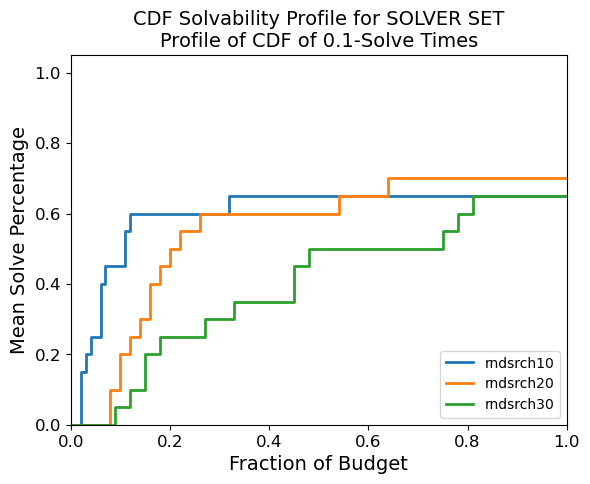
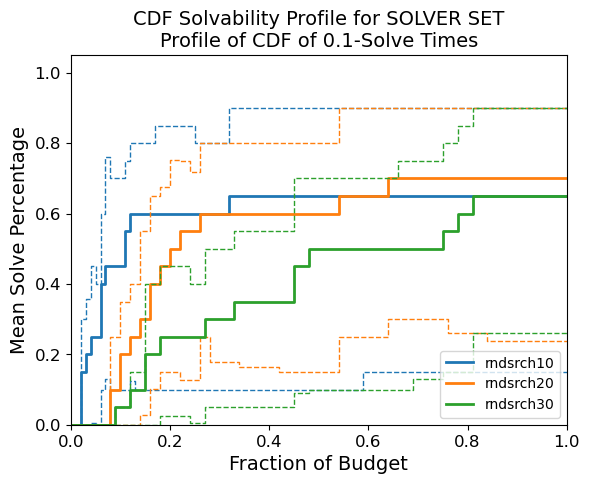
finish function for plotting solvability and difference profiles
Add bootstrapping and ability to produce separate plots for each solver. Create helper function to produce curve with a jump at solve time quantile.

diff --git a/simopt/wrapper_base.py b/simopt/wrapper_base.py
@@ -229,6 +229,32 @@ def cdf_of_curves_crossing_times(curves, threshold):
     return cdf_curve
 
 
+def quantile_cross_jump(curves, threshold, beta):
+    """
+    Compute a simple curve with a jump at the quantile of the crossing times.
+
+    Parameters
+    ----------
+    curves : list of wrapper_base.Curve objects
+        collection of curves to aggregate
+    threshold : float
+        value for which to find first crossing time
+    beta : float
+        quantile level
+
+    Returns
+    -------
+    jump_curve : wrapper_base.Curve object
+        piecewise-constant curve with a jump at the quantile crossing time (if finite)
+    """
+    solve_time_quantile = np.quantile([curve.compute_crossing_time(threshold=threshold) for curve in curves], q=beta)
+    if solve_time_quantile == np.inf:
+        jump_curve = Curve(x_vals=[0, 1], y_vals=[0, 0])
+    else:
+        jump_curve = Curve(x_vals=[0, solve_time_quantile, 1], y_vals=[0, 1, 1])
+    return jump_curve
+
+
 def difference_of_curves(curve1, curve2):
     """
     Compute the difference of two curves (Curve 1 - Curve 2).
@@ -952,16 +978,20 @@ def functional_of_curves(bootstrap_curves, plot_type, beta=0.5, solve_tol=0.1):
         functional = cdf_of_curves_crossing_times(bootstrap_curves[0][0], threshold=solve_tol)
     elif plot_type == "cdf_solvability":
         # One solver, multiple problems --> returns a curve.
-        functional = None  # Placeholder.
+        functional = mean_of_curves([cdf_of_curves_crossing_times(curves=progress_curves, threshold=solve_tol) for progress_curves in bootstrap_curves[0]])
     elif plot_type == "quantile_solvability":
         # One solver, multiple problems --> returns a curve.
-        functional = None  # Placeholder.
+        functional = mean_of_curves([quantile_cross_jump(curves=progress_curves, threshold=solve_tol, beta=beta) for progress_curves in bootstrap_curves[0]])
     elif plot_type == "diff_cdf_solvability":
         # Two solvers, multiple problems --> returns a curve.
-        functional = None  # Placeholder.
+        solvability_profile_1 = mean_of_curves([cdf_of_curves_crossing_times(curves=progress_curves, threshold=solve_tol) for progress_curves in bootstrap_curves[0]])
+        solvability_profile_2 = mean_of_curves([cdf_of_curves_crossing_times(curves=progress_curves, threshold=solve_tol) for progress_curves in bootstrap_curves[1]])
+        functional = difference_of_curves(solvability_profile_1, solvability_profile_2)
     elif plot_type == "diff_quantile_solvability":
         # Two solvers, multiple problems --> returns a curve.
-        functional = None  # Placeholder.
+        solvability_profile_1 = mean_of_curves([quantile_cross_jump(curves=progress_curves, threshold=solve_tol, beta=beta) for progress_curves in bootstrap_curves[0]])
+        solvability_profile_2 = mean_of_curves([quantile_cross_jump(curves=progress_curves, threshold=solve_tol, beta=beta) for progress_curves in bootstrap_curves[1]])
+        functional = difference_of_curves(solvability_profile_1, solvability_profile_2)
     else:
         print("Not a valid plot type.")
     return functional
@@ -1422,7 +1452,7 @@ def plot_area_scatterplots(experiments, all_in_one=True, plot_CIs=True, print_ma
                       )
 
 
-def plot_solvability_profiles(experiments, plot_type, all_in_one=True, plot_CIS=True, print_max_hw=True, solve_tol=0.1, beta=0.5, ref_solver=None):
+def plot_solvability_profiles(experiments, plot_type, all_in_one=True, plot_CIs=True, print_max_hw=True, solve_tol=0.1, beta=0.5, ref_solver=None):
     """
     Plot the (difference of) solvability profiles for each solver on a set of problems.
 
@@ -1474,11 +1504,7 @@ def plot_solvability_profiles(experiments, plot_type, all_in_one=True, plot_CIS=
                 if plot_type in {"cdf_solvability", "diff_cdf_solvability"}:
                     sub_curve = cdf_of_curves_crossing_times(curves=experiment.progress_curves, threshold=solve_tol)
                 if plot_type in {"quantile_solvability", "diff_quantile_solvability"}:
-                    solve_time_quantile = np.quantile([curve.compute_crossing_time(threshold=solve_tol) for curve in experiment.progress_curves], q=beta)
-                    if solve_time_quantile == np.inf:
-                        sub_curve = Curve(x_vals=[0, 1], y_vals=[0, 0])
-                    else:
-                        sub_curve = Curve(x_vals=[0, solve_time_quantile, 1], y_vals=[0, 1, 1])
+                    sub_curve = quantile_cross_jump(curves=experiment.progress_curves, threshold=solve_tol, beta=beta)
                 solver_sub_curves.append(sub_curve)
             # Plot solvability profile for the solver.
             # Exploit the fact that each solvability profile is an average of more basic curves.
@@ -1487,6 +1513,18 @@ def plot_solvability_profiles(experiments, plot_type, all_in_one=True, plot_CIS=
             if plot_type in {"cdf_solvability", "quantile_solvability"}:
                 handle = solver_curve.plot(color_str=color_str)
                 solver_curve_handles.append(handle)
+                if plot_CIs:
+                    # Note: "experiments" needs to be a list of list of Experiments.
+                    bs_CI_lb_curve, bs_CI_ub_curve = bootstrap_procedure(experiments=[experiments[solver_idx]],
+                                                                         n_bootstraps=100,
+                                                                         plot_type=plot_type,
+                                                                         solve_tol=solve_tol,
+                                                                         beta=beta,
+                                                                         estimator=solver_curve,
+                                                                         normalize=True
+                                                                         )
+                    plot_bootstrap_CIs(bs_CI_lb_curve, bs_CI_ub_curve, color_str=color_str)
+
         if plot_type == "cdf_solvability":
             plt.legend(handles=solver_curve_handles, labels=solver_names, loc="lower right")
             save_plot(solver_name="SOLVER SET",
@@ -1512,7 +1550,19 @@ def plot_solvability_profiles(experiments, plot_type, all_in_one=True, plot_CIS=
                     color_str = "C" + str(solver_idx)
                     handle = diff_solver_curve.plot(color_str=color_str)
                     solver_curve_handles.append(handle)
-            offset_labels = [f"{non_ref_solver} -  {ref_solver}" for non_ref_solver in non_ref_solvers]
+                    if plot_CIs:
+                        # Note: "experiments" needs to be a list of list of Experiments.
+                        bs_CI_lb_curve, bs_CI_ub_curve = bootstrap_procedure(experiments=[experiments[solver_idx], experiments[ref_solver_idx]],
+                                                                             n_bootstraps=100,
+                                                                             plot_type=plot_type,
+                                                                             solve_tol=solve_tol,
+                                                                             beta=beta,
+                                                                             estimator=diff_solver_curve,
+                                                                             normalize=True
+                                                                             )
+                        plot_bootstrap_CIs(bs_CI_lb_curve, bs_CI_ub_curve, color_str=color_str)
+
+            offset_labels = [f"{non_ref_solver} - {ref_solver}" for non_ref_solver in non_ref_solvers]
             plt.legend(handles=solver_curve_handles, labels=offset_labels, loc="lower right")
             if plot_type == "diff_cdf_solvability":
                 save_plot(solver_name="SOLVER SET",
@@ -1529,7 +1579,91 @@ def plot_solvability_profiles(experiments, plot_type, all_in_one=True, plot_CIS=
                           extra=[solve_tol, beta]
                           )
     else:
-        pass
+        solver_names = [solver_experiments[0].solver.name for solver_experiments in experiments]
+        solver_curves = []
+        for solver_idx in range(n_solvers):
+            solver_sub_curves = []
+            # For each problem compute the cdf or quantile of solve times.
+            for problem_idx in range(n_problems):
+                experiment = experiments[solver_idx][problem_idx]
+                if plot_type in {"cdf_solvability", "diff_cdf_solvability"}:
+                    sub_curve = cdf_of_curves_crossing_times(curves=experiment.progress_curves, threshold=solve_tol)
+                if plot_type in {"quantile_solvability", "diff_quantile_solvability"}:
+                    sub_curve = quantile_cross_jump(curves=experiment.progress_curves, threshold=solve_tol, beta=beta)
+                solver_sub_curves.append(sub_curve)
+            # Plot solvability profile for the solver.
+            # Exploit the fact that each solvability profile is an average of more basic curves.
+            solver_curve = mean_of_curves(solver_sub_curves)
+            solver_curves.append(solver_curve)
+            if plot_type in {"cdf_solvability", "quantile_solvability"}:
+                # Set up plot.
+                if plot_type == "cdf_solvability":
+                    stylize_solvability_plot(solver_name=experiments[solver_idx][0].solver.name, problem_name="PROBLEM SET", solve_tol=solve_tol, beta=None, plot_type="cdf")
+                elif plot_type == "quantile_solvability":
+                    stylize_solvability_plot(solver_name=experiments[solver_idx][0].solver.name, problem_name="PROBLEM SET", solve_tol=solve_tol, beta=beta, plot_type="quantile")
+                handle = solver_curve.plot()
+                if plot_CIs:
+                    # Note: "experiments" needs to be a list of list of Experiments.
+                    bs_CI_lb_curve, bs_CI_ub_curve = bootstrap_procedure(experiments=[experiments[solver_idx]],
+                                                                         n_bootstraps=100,
+                                                                         plot_type=plot_type,
+                                                                         solve_tol=solve_tol,
+                                                                         beta=beta,
+                                                                         estimator=solver_curve,
+                                                                         normalize=True
+                                                                         )
+                    plot_bootstrap_CIs(bs_CI_lb_curve, bs_CI_ub_curve)
+                if plot_type == "cdf_solvability":
+                    save_plot(solver_name=experiments[solver_idx][0].solver.name,
+                              problem_name="PROBLEM SET",
+                              plot_type=plot_type,
+                              normalize=True,
+                              extra=solve_tol
+                              )
+                elif plot_type == "quantile_solvability":
+                    save_plot(solver_name=experiments[solver_idx][0].solver.name,
+                              problem_name="PROBLEM SET",
+                              plot_type=plot_type,
+                              normalize=True,
+                              extra=[solve_tol, beta]
+                              )
+        if plot_type in {"diff_cdf_solvability", "diff_quantile_solvability"}:
+            non_ref_solvers = [solver_name for solver_name in solver_names if solver_name != ref_solver]
+            ref_solver_idx = solver_names.index(ref_solver)
+            for solver_idx in range(n_solvers):
+                if solver_idx is not ref_solver_idx:
+                    if plot_type == "diff_cdf_solvability":
+                        stylize_difference_plot(solve_tol=solve_tol)
+                    elif plot_type == "diff_quantile_solvability":
+                        # TO DO: Pass in beta when plotting differences of quantile-solvability profiles.
+                        stylize_difference_plot(solve_tol=solve_tol)
+                    diff_solver_curve = difference_of_curves(solver_curves[solver_idx], solver_curves[ref_solver_idx])
+                    handle = diff_solver_curve.plot()
+                    if plot_CIs:
+                        # Note: "experiments" needs to be a list of list of Experiments.
+                        bs_CI_lb_curve, bs_CI_ub_curve = bootstrap_procedure(experiments=[experiments[solver_idx], experiments[ref_solver_idx]],
+                                                                             n_bootstraps=100,
+                                                                             plot_type=plot_type,
+                                                                             solve_tol=solve_tol,
+                                                                             beta=beta,
+                                                                             estimator=diff_solver_curve,
+                                                                             normalize=True
+                                                                             )
+                        plot_bootstrap_CIs(bs_CI_lb_curve, bs_CI_ub_curve)
+                    if plot_type == "diff_cdf_solvability":
+                        save_plot(solver_name=experiments[solver_idx][0].solver.name,
+                                  problem_name="PROBLEM SET",
+                                  plot_type=plot_type,
+                                  normalize=True,
+                                  extra=solve_tol
+                                  )
+                    elif plot_type == "diff_quantile_solvability":
+                        save_plot(solver_name=experiments[solver_idx][0].solver.name,
+                                  problem_name="PROBLEM SET",
+                                  plot_type=plot_type,
+                                  normalize=True,
+                                  extra=[solve_tol, beta]
+                                  )
 
 
 # TO DO: Merge all stylize plot functions

diff --git a/simopt/demo.py b/simopt/demo.py
@@ -51,8 +51,8 @@ exp6 = read_experiment_results("experiments/outputs/rndsrch30_on_cnt7.pickle")
 #plot_area_scatterplots([[exp1, exp3], [exp2, exp4]], all_in_one=True, plot_CIs=True)
 #plot_area_scatterplots([[exp1, exp3], [exp2, exp4]], all_in_one=False, plot_CIs=False)
 
-plot_solvability_profiles([[exp1, exp3], [exp2, exp4], [exp5, exp6]], plot_type="cdf_solvability", all_in_one=True, plot_CIS=True, print_max_hw=True, solve_tol=0.1)
-plot_solvability_profiles([[exp1, exp3], [exp2, exp4], [exp5, exp6]], plot_type="quantile_solvability", all_in_one=True, plot_CIS=True, print_max_hw=True, solve_tol=0.1, beta=0.5)
-plot_solvability_profiles([[exp1, exp3], [exp2, exp4], [exp5, exp6]], plot_type="diff_cdf_solvability", all_in_one=True, plot_CIS=True, print_max_hw=True, solve_tol=0.1, ref_solver="rndsrch10")
-plot_solvability_profiles([[exp1, exp3], [exp2, exp4], [exp5, exp6]], plot_type="diff_quantile_solvability", all_in_one=True, plot_CIS=True, print_max_hw=True, solve_tol=0.1, beta=0.5, ref_solver="rndsrch10")
+plot_solvability_profiles([[exp1, exp3], [exp2, exp4], [exp5, exp6]], plot_type="cdf_solvability", all_in_one=True, plot_CIs=True, print_max_hw=True, solve_tol=0.1)
+plot_solvability_profiles([[exp1, exp3], [exp2, exp4], [exp5, exp6]], plot_type="quantile_solvability", all_in_one=True, plot_CIs=True, print_max_hw=True, solve_tol=0.1, beta=0.5)
+#plot_solvability_profiles([[exp1, exp3], [exp2, exp4], [exp5, exp6]], plot_type="diff_cdf_solvability", all_in_one=False, plot_CIs=True, print_max_hw=True, solve_tol=0.1, ref_solver="rndsrch10")
+#plot_solvability_profiles([[exp1, exp3], [exp2, exp4], [exp5, exp6]], plot_type="diff_quantile_solvability", all_in_one=False, plot_CIs=True, print_max_hw=True, solve_tol=0.1, beta=0.5, ref_solver="rndsrch10")
 
